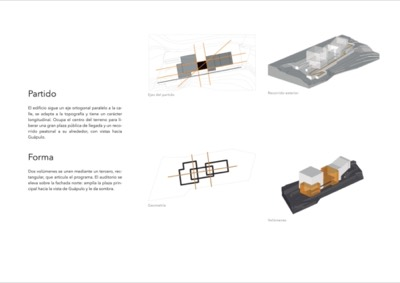
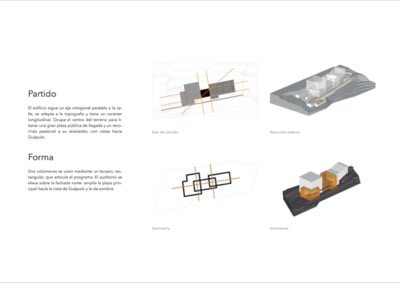
Centro Comunitario: diagramas de partido y forma en una cuadrícula pareja

diff --git a/CLAUDE.md b/CLAUDE.md
@@ -37,7 +37,7 @@ Sitio en vivo: Vercel, desplegado automáticamente desde `main` de https://githu
 - **Créditos de Sofía Murillo: quitados** a pedido de Joaquín (no volver a ponerlos).
 - Revisar **también en computadora**, no solo en celular (los problemas de la sesión 3 eran solo de escritorio).
 - Corregir libremente textos mal escritos o mal redactados (los míos y los sacados de láminas).
-- **Láminas de Diseños (aprendido con Mundaneum, 2026-11-16)**: (1) **ninguna escala** ("ESC 1:…") en plantas ni cortes; (2) mejor **piezas sueltas** (cada planta, corte o render solo) que láminas completas abarrotadas; (3) cuando se agrupan diagramas, la lámina debe verse **limpia como las 03/04 de Mundaneum**: fondo blanco, márgenes amplios, títulos finos (Avenir Next), texto justificado a la izquierda y dibujos sueltos **sin cajas grises ni rótulos en negrita** — Joaquín rechazó ("no me gustan para nada") pegar los paneles originales con su fondo gris; (4) no repetir un mismo dibujo en dos imágenes; (5) plantas: varias plantas pueden ir juntas en una lámina blanca, una encima de otra, con su nombre en gris debajo; ejes y niveles de los cortes en gris claro, poco llamativos; primero la planta baja (nivel 0), luego las superiores y al final los subsuelos; si un dibujo se ve con líneas muy claras, oscurecerlo (`oscurece.mjs`) y agrandarlo; (5a) en Diseños Joaquín suele quitar vistas aéreas, axonometrías, secciones en perspectiva e interiores sueltos: priorizar vistas exteriores a la altura de la calle, análisis, plantas y secciones; (5b) textos de las imágenes con el formato que pidió en Galería-Talleres: "Análisis: …", "Foto en sitio: …", "Axonometría", "Sección 1" / "Sección 2" (no "A-A′"); (6) orden: renders y concepto → recorrido → diagramas → planta baja → demás plantas → cortes → vistas → maqueta. Los textos de las láminas nuevas se resumen de los PDF (PORTAFOLIO/INFORME), corregidos y sin citas académicas.
+- **Láminas de Diseños (aprendido con Mundaneum, 2026-11-16)**: (1) **ninguna escala** ("ESC 1:…") en plantas ni cortes; (2) mejor **piezas sueltas** (cada planta, corte o render solo) que láminas completas abarrotadas; (3) cuando se agrupan diagramas, la lámina debe verse **limpia como las 03/04 de Mundaneum**: fondo blanco, márgenes amplios, títulos finos (Avenir Next), texto justificado a la izquierda y dibujos sueltos **sin cajas grises ni rótulos en negrita** — Joaquín rechazó ("no me gustan para nada") pegar los paneles originales con su fondo gris; (4) no repetir un mismo dibujo en dos imágenes; (5) cuando una lámina lleva varios diagramas, ponerlos en una cuadrícula pareja (celdas iguales, alineadas y centradas en la hoja), no sueltos a distintas alturas; plantas: varias plantas pueden ir juntas en una lámina blanca, una encima de otra, con su nombre en gris debajo; ejes y niveles de los cortes en gris claro, poco llamativos; primero la planta baja (nivel 0), luego las superiores y al final los subsuelos; si un dibujo se ve con líneas muy claras, oscurecerlo (`oscurece.mjs`) y agrandarlo; (5a) en Diseños Joaquín suele quitar vistas aéreas, axonometrías, secciones en perspectiva e interiores sueltos: priorizar vistas exteriores a la altura de la calle, análisis, plantas y secciones; (5b) textos de las imágenes con el formato que pidió en Galería-Talleres: "Análisis: …", "Foto en sitio: …", "Axonometría", "Sección 1" / "Sección 2" (no "A-A′"); (6) orden: renders y concepto → recorrido → diagramas → planta baja → demás plantas → cortes → vistas → maqueta. Los textos de las láminas nuevas se resumen de los PDF (PORTAFOLIO/INFORME), corregidos y sin citas académicas.
 - No usar frases autorreferenciales tipo "Diseñado y dirigido por mí, de principio a fin" (la pidió quitar).
 - No instalar nada pesado en la Mac (sin Xcode CLT). Paquetes npm chicos sí, previa consulta, y fuera del repo.
 
@@ -110,7 +110,7 @@ Sitio en vivo: Vercel, desplegado automáticamente desde `main` de https://githu
 - `colegio-mine` (5): `IMG_4040, 4054, 4592, 4156` + obra `IMG_0822` (sala multiusos: pabellón poligonal, cubierta metálica, eucaliptos). **Franja del inicio** = `obras/colegio-mine-inicio.jpg`: foto frontal `IMG_4156` (2400×3200, filas 1020–1760) **girada 1,5° antihorario para nivelar la cubierta** (la foto estaba inclinada a la derecha; Joaquín pidió "que el techo se vea recto"; giro hecho con CSS `rotate` + `compone.mjs`, sin esquinas vacías), `pos` 50% 45% — Joaquín veía "chueca" la franja hecha con `IMG_4040` (cubierta cortada, alero curvo).
 
 **Diseños (en el sitio) — solo entregas finales** (página del PDF → número de imagen; portadas en `public/img/disenos/`)
-- `centro-comunitario` (10, rehecho el 2026-11-16; T4 `CENTRO COMUNITARIO.pdf`, 9 láminas horizontales con franja inferior USFQ + nombres, nunca incluirla): 01 vista desde la González Suárez y 02 vista del ingreso (pág. 2 `[.648,.04,.934,.293]`, `[.648,.343,.934,.582]`) · 03–06 **láminas limpias**: "El lugar" + "Equinoccio" con la implantación (pág. 2 `[.064,.056,.51,.551]`, bordes difuminados); "Partido" + "Forma" con 4 diagramas (pág. 1 `[.021,.196,.181,.315]`, `[.016,.32,.186,.438]`, `[.035,.48,.175,.578]`, `[.028,.592,.186,.728]` con fondo gris 241 blanqueado); "Estructura" + "Luz y circulación" con estructura `[.039,.772,.173,.92]` y el despiece `[.435,.05,.725,.497]` (leyenda original borrada y **rehecha en HTML**: Envolvente, Núcleos, Circulación horizontal, Terrazas y muebles fijos, Patio de esculturas); "Programa" con la separación del programa `[.435,.487,.737,.69]` · 07 planta 0,00 (pág. 3) · 08 plantas +4,50 y +9,50 apiladas (pág. 4) · 09 planta −4,00 (pág. 5) · 10 secciones A-A′ y B-B′ apiladas (pág. 6), rótulos de escala borrados o fuera del recorte. **Fuera**: vistas interiores, axonometrías (pág. 9), fachadas (págs. 7–8), cuadro de áreas, diagrama servidor/servido. Portada (axonometría) sin cambios; **franja del inicio = vista del ingreso** (`centro-comunitario/02.jpg`, `pos` 50% 68%), pedido de Joaquín. Lámina 05: despiece centrado en la hoja (pedido de Joaquín). Gramática de las 4 láminas revisada.
+- `centro-comunitario` (10, rehecho el 2026-11-16; T4 `CENTRO COMUNITARIO.pdf`, 9 láminas horizontales con franja inferior USFQ + nombres, nunca incluirla): 01 vista desde la González Suárez y 02 vista del ingreso (pág. 2 `[.648,.04,.934,.293]`, `[.648,.343,.934,.582]`) · 03–06 **láminas limpias**: "El lugar" + "Equinoccio" con la implantación (pág. 2 `[.064,.056,.51,.551]`, bordes difuminados); "Partido" + "Forma" con 4 diagramas (pág. 1 `[.021,.196,.181,.315]`, `[.016,.32,.186,.438]`, `[.035,.48,.175,.578]`, `[.028,.592,.186,.728]` con fondo gris 241 blanqueado); "Estructura" + "Luz y circulación" con estructura `[.039,.772,.173,.92]` y el despiece `[.435,.05,.725,.497]` (leyenda original borrada y **rehecha en HTML**: Envolvente, Núcleos, Circulación horizontal, Terrazas y muebles fijos, Patio de esculturas); "Programa" con la separación del programa `[.435,.487,.737,.69]` · 07 planta 0,00 (pág. 3) · 08 plantas +4,50 y +9,50 apiladas (pág. 4) · 09 planta −4,00 (pág. 5) · 10 secciones A-A′ y B-B′ apiladas (pág. 6), rótulos de escala borrados o fuera del recorte. **Fuera**: vistas interiores, axonometrías (pág. 9), fachadas (págs. 7–8), cuadro de áreas, diagrama servidor/servido. Portada (axonometría) sin cambios; **franja del inicio = vista del ingreso** (`centro-comunitario/02.jpg`, `pos` 50% 68%), pedido de Joaquín. Lámina 05: despiece centrado en la hoja (pedido de Joaquín). Lámina 04: los 4 diagramas en cuadrícula 2 × 2 de celdas iguales (380 px de alto, imagen centrada, `align-content:center`), pedido de Joaquín: "disparejos" → ordenados. Gramática de las 4 láminas revisada.
 - `facultad-arquitectura` (9, rehecha el 2026-11-16; Joaquín pidió quitar las 2 vistas aéreas y las 2 secciones en perspectiva, y **unir plantas en láminas blancas, una encima de otra**: hoy 01 vista del conjunto, 02 vista desde la calle, 03–05 láminas limpias, 06 planta nivel 0, 07 plantas +3 y +6, 08 plantas +10,50, +14 y −3 (HTML: plantas de 1760 px de ancho con pie gris en Avenir Next), 09 sección con **ejes aclarados** (`ejes.mjs sec.jpg out 300 300 540 0.3`: círculos y líneas finas de eje al 30 %; pedido de Joaquín: "menos invasivos") y **niveles aclarados igual** (`aclara.mjs in out 150 0.3 50,680,197,315`: rótulos "N+ …" y sus líneas); lo que sigue es la versión de 16: T5 `ENTREGA FINAL.pdf`, 5 págs. de 1413×2000 con franja USFQ abajo): 01–04 vistas 3D (pág. 5 `[.003,.642,.49,.838]`, `[.01,.396,.482,.585]`, `[.509,.396,.978,.584]`, `[.5,.642,.989,.838]`) · 05–07 **láminas limpias**: "Concepto" + organigrama (pág. 1 `[.54,.064,.88,.21]`) + implantación (`[.488,.237,.928,.524]`, `oscurece.mjs` gamma 5); "Núcleo central" + "Aulas" con fluidez espacial `[.08,.229,.435,.312]` y ejes `[.068,.334,.48,.418]`; "Estructura" + "Articulación" con estructura `[.578,.528,.915,.63]`, articulación `[.058,.548,.47,.62]` y malla `[.044,.432,.48,.525]` (textos de Estructura y Articulación escritos por Claude a partir de los dibujos y renders: la lámina no tenía texto para eso) · 08–13 plantas 0, +3, +6 (pág. 2), +10,50, +14 (pág. 3) y −3 (pág. 2, recortada a la izquierda), rótulos "PLANTA NIVEL … ESC" borrados enteros · 14 sección longitudinal (pág. 1 `[.03,.632,.94,.932]`) · 15–16 secciones en perspectiva (pág. 5 `[.035,.093,.446,.274]`, `[.459,.093,.833,.274]`). Sin fachadas, sin los 4 cortes del espacio jerárquico ni los 2 cortes transversales. Portada y franja sin cambios.
 - `biblioteca` (10, rehecha el 2026-11-16; **Joaquín pidió quitar las 2 axonometrías y las 2 vistas interiores** (hall y sala de lectura): hoy 01 vista Juan de Azcaray, 02 vista del conjunto, 03–06 láminas limpias, 07 implantación, 08 planta baja, 09 plantas altas, 10 secciones; lo que sigue es la versión de 14: T6 `ENTREGA FINAL.pdf`, 8 págs., horizontales 2000×1413 (1, 3, 4, 6) y verticales 1413×2000 (2, 5, 7, 8)): 01 vista Juan de Azcaray (pág. 7 `[.038,.645,.957,.94]`) · 02 vista del conjunto (pág. 1 `[.296,.705,.97,.977]`) · 03–04 axonometrías (pág. 8 `[.04,.05,.96,.45]`, `[.04,.475,.96,.85]`; rótulos fantasma casi blancos borrados con `blanquea_claros.mjs`, marco derecho borrado) · 05–08 **láminas limpias**: "Dualidad" + círculos del punto de inflexión (pág. 1 `[.33,.12,.94,.375]`); "Forma" + partido `[.345,.415,.445,.695]`, programa `[.77,.455,.965,.68]` (rótulo tapado "LECCIÓN" reescrito como "COLECCIÓN" en Arial 37 px) y forma (pág. 2); "Circulación" + "Espacialidad"; "Envolvente" + "Estructura" (diagramas de la pág. 2, aislados de los vecinos con `conserva.mjs`) · 09 implantación (pág. 3 `[.032,.16,.507,.832]`) · 10 planta baja (`[.508,.16,.962,.832]`) · 11 primera, segunda y tercera planta lado a lado (pág. 4) · 12 secciones longitudinal y transversal apiladas (pág. 7 `[.035,.045,.957,.179]` y `[.035,.195,.957,.328]`, niveles aclarados) · 13 hall de ingreso y 14 sala de lectura (pág. 6, sin sus rótulos). **Fuera**: cuadro de áreas, 4 alzados, 2 cortes fugados, los otros 2 cortes de la pág. 7. Textos de las láminas resumidos de la pág. 1 y 2. Portada y franja sin cambios.
 - `edificio-nexo` (14, rehecho el 2026-11-16; páginas de 1413×2000 con franja USFQ abajo, nunca incluirla): 01 vista desde la calle José Correa (pág. 6 `[0,.008,1,.39]`, título borrado con `rellena.mjs` 0,0,880,85 a 2400 px) · 02 render de la esquina (pág. 1 `[.348,0,1,.258]`) · 03 las 4 axonometrías juntas (pág. 6 `[0,.418,1,.862]`) · 04 **lámina limpia** "Ubicación" + "Uso mixto" con la implantación (pág. 1 `[.348,.285,1,.648]`, `lado` 2800, **líneas oscurecidas con `oscurece.mjs` gamma 6** porque Joaquín la vio "muy bajita"; dibujo de 1140 px de ancho; el rótulo "Carlos Arrollo - Vía Local" se reemplazó por "Carlos Arroyo - Vía Local" en Avenir Next 47 px vertical — **la calle es Carlos Arroyo** (confirmado por Joaquín); la imagen 2 es la "Vista desde la calle Carlos Arroyo") · 05 **lámina limpia** "Estructura", "Envolvente", "Circulación" con sus diagramas (pág. 1 `[.012,.378,.315,.51]`, `[.004,.596,.338,.697]`, `[.06,.793,.3,.957]`; fondo gris 229 pasado a blanco con `fondo_blanco.mjs` y, en circulación, con `gris_global.mjs`) · 06–13 plantas **en el orden pedido por Joaquín: nivel 0, luego +3, +6, +9, +12, +15 y al final los subsuelos −3, −6** (págs. 2 y 3, cuadrantes `[.012,.055,.49,.4]` `[.505,.055,.995,.4]` `[.012,.495,.495,.84]` `[.51,.495,.998,.84]`); la planta de terrazas decía "+12.00" por error: se cambió el 2 por un 5 (Avenir Next 41,5 px, HTML + `compone.mjs`) · 14 **una sola sección** (1-1′, pág. 4 `[.12,.335,.92,.553]`), rotulada "Sección": Joaquín pidió quitar las otras dos (A-A′ y 2-2′). Sin fachadas. Portada y franja sin cambios.
